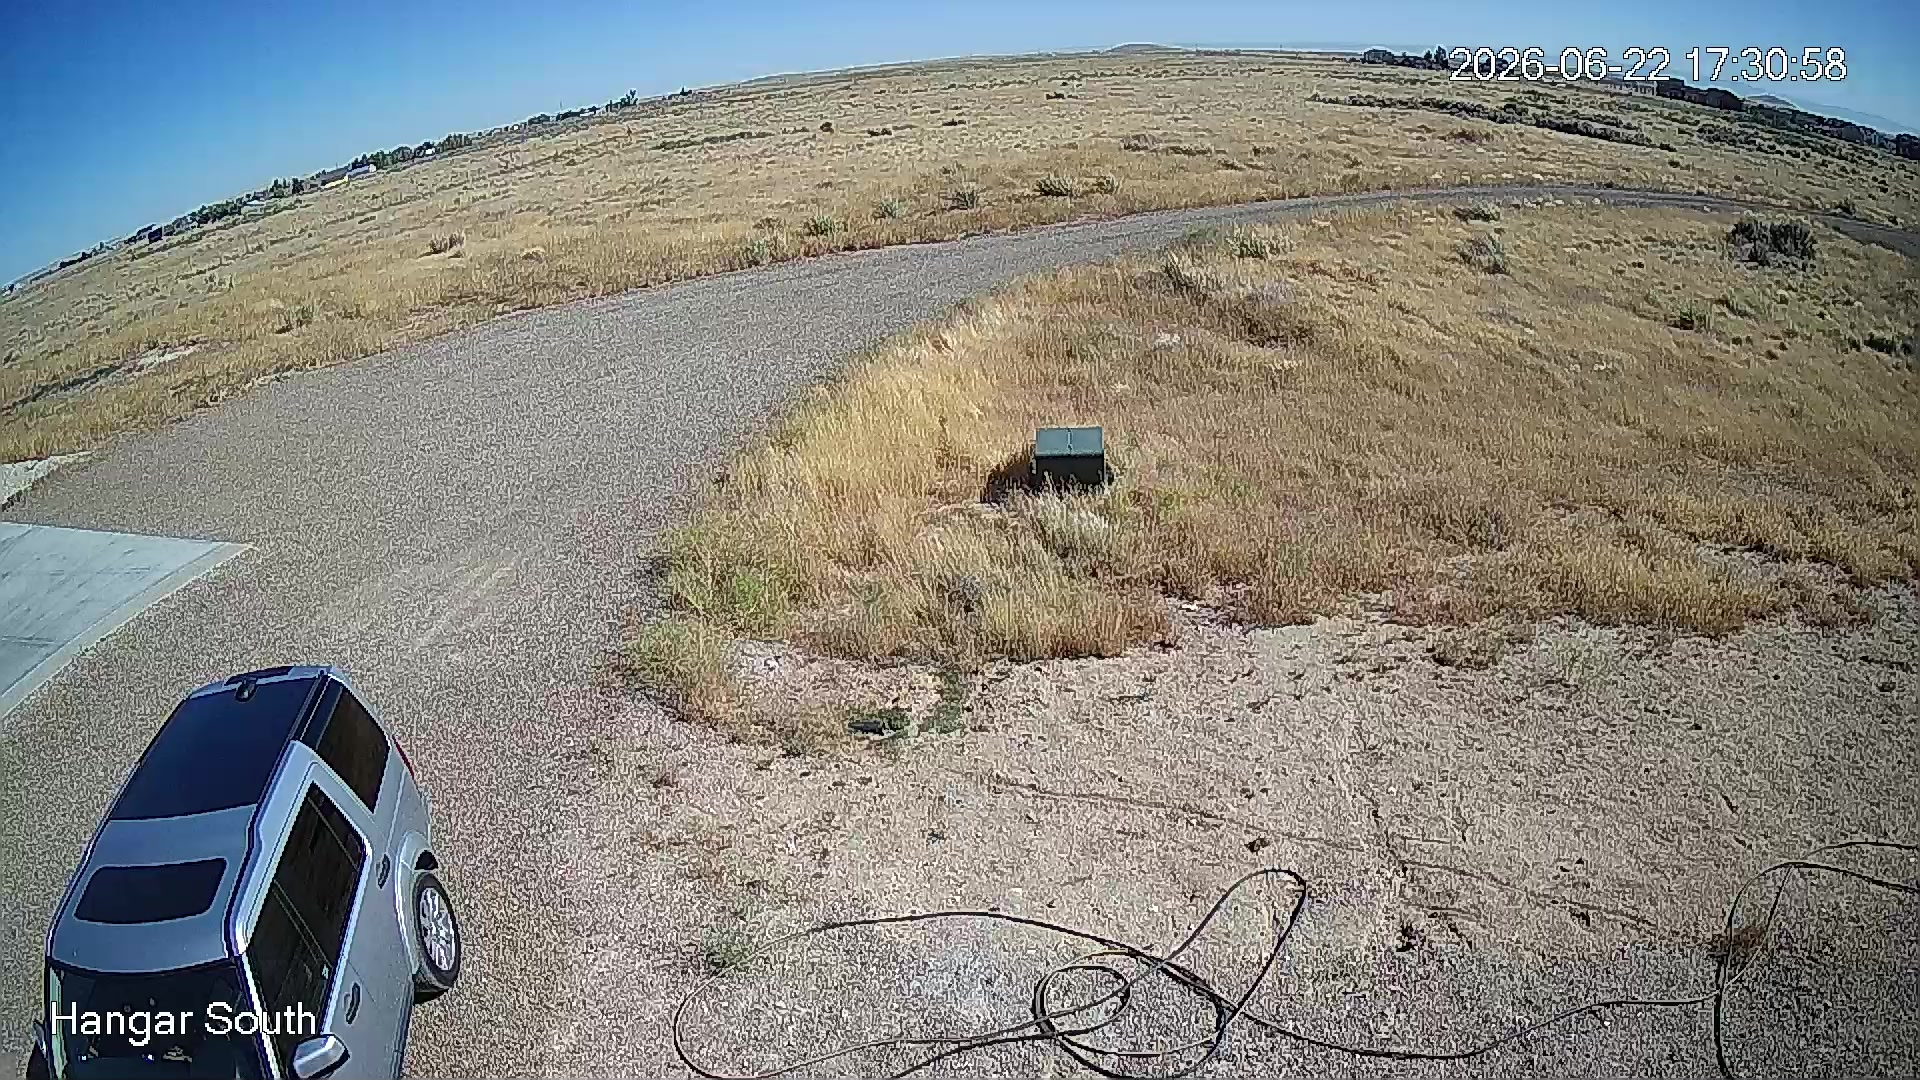
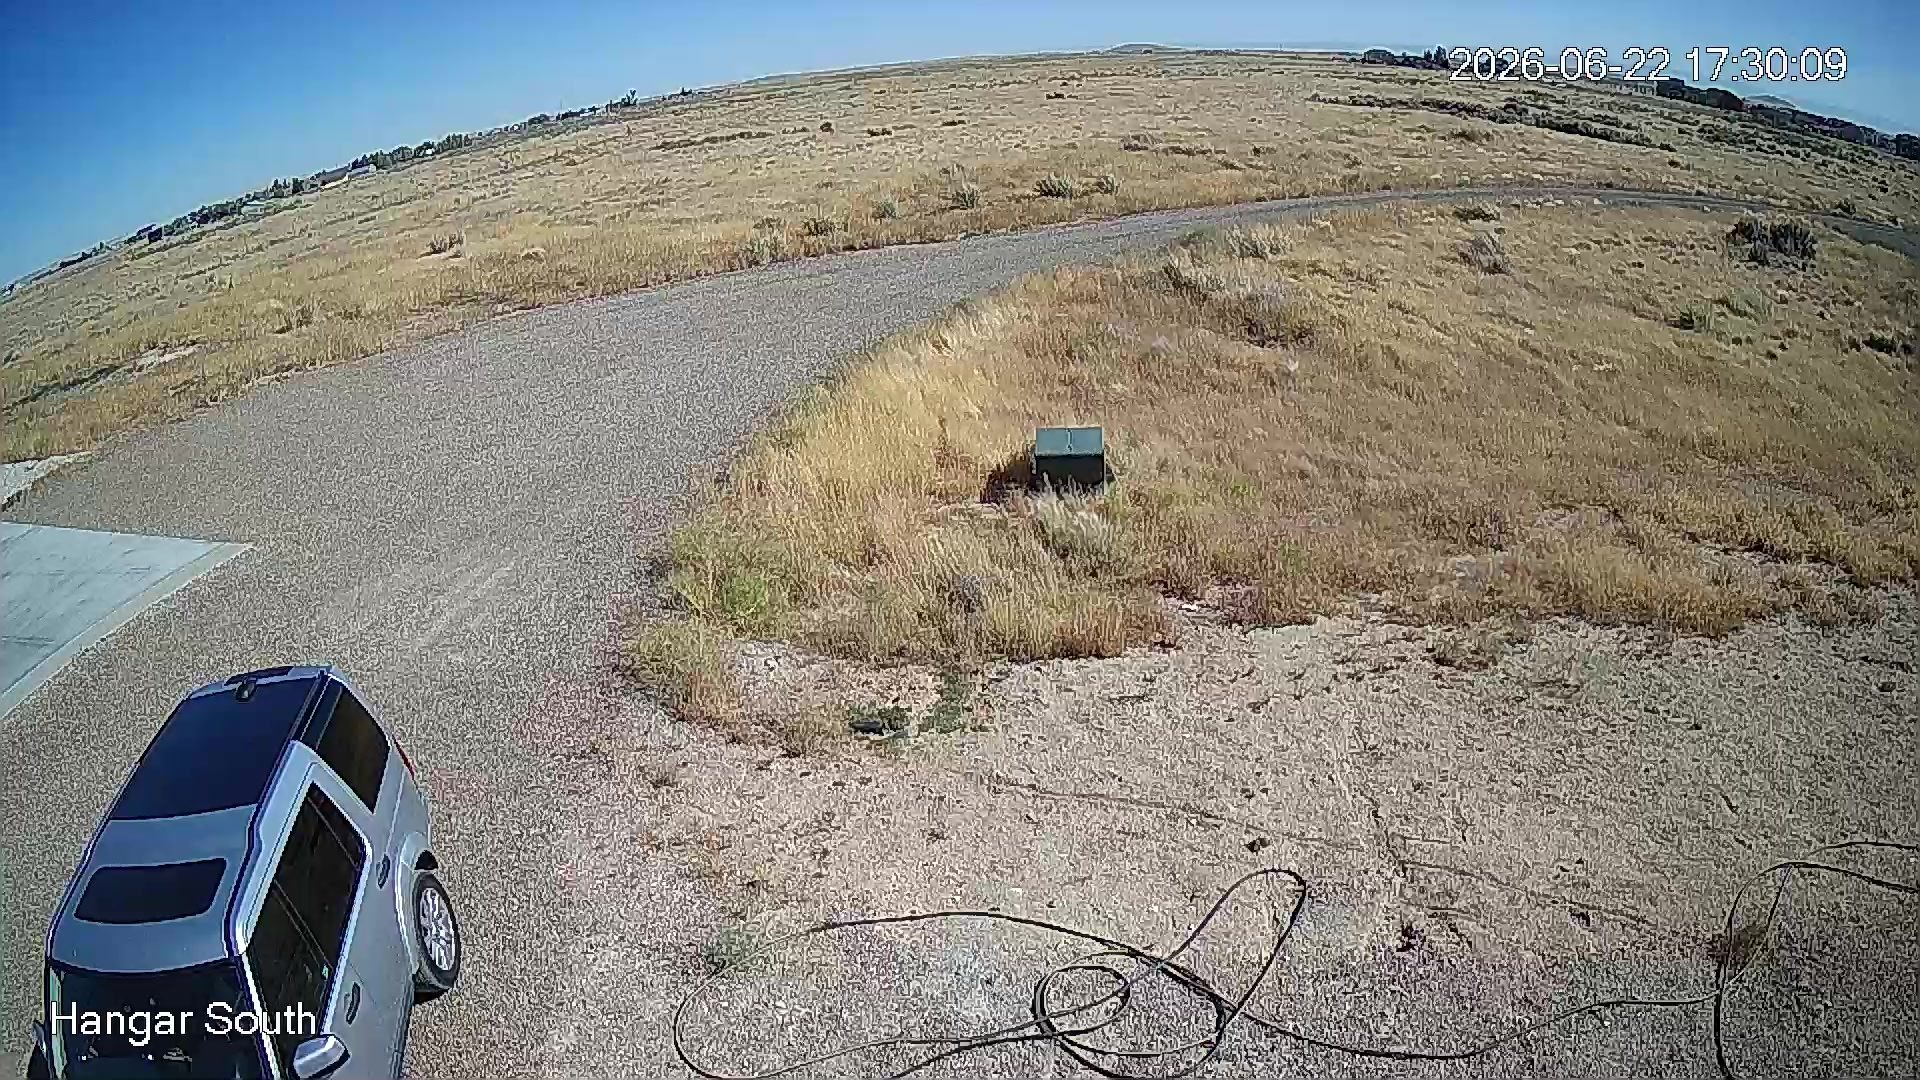
Auto-update daily aviation report and camera snapshot

Changed region(s): [[0.0, 0.0306, 1.0, 1.0], [0.125, 0.9778, 0.1562, 1.0], [0.125, 0.7944, 0.1562, 0.825]]

diff --git a/index.html b/index.html
@@ -93,57 +93,65 @@
 
             <div class="bg-slate-900 rounded p-4 font-mono text-sm leading-relaxed text-slate-300 overflow-x-auto whitespace-pre-wrap border border-slate-800" id="daily-report">
 <!-- REPORT_START -->
-🛩 **MORNING AVIATION WEATHER**
-Oasis, ID | Fri Jun 19, 2026 | 0900 MDT
+🛩 OASIS AVIATION WEATHER
+Monday, June 22, 2026 - 5:30 PM MDT
 
-**📡 LOCAL STATION (WeatherLink)**
-- Temp: 73°F | Dew Point: 34°F
-- Humidity: 24%
-- Barometer: 29.937" (rising +0.040)
-- Wind: SE (140°) at 4 mph, avg 5 mph, gusts 12 mph (10 min)
-- Rain last 24h: None
+📡 LOCAL STATION (WeatherLink)
+- Temp: 88.4°F (heat index 84.7°F)
+- Humidity: 13.2%
+- Dew Point: 31.7°F (spread 56.7°F)
+- Wind: WNW at 14 mph, avg 13.5 mph (10 min)
+- Gusts: 25 mph from W (last 10 min)
+- Barometer: 29.969" (falling, -0.034 trend)
+- Rain: None last 24 hrs, no current precip
+- Indoor: 89.3°F / 14.4% humidity
 
-**📸 VISUAL CONDITIONS (Cameras)**
-- FEW/SCT high cirrus, vis unrestricted >10sm
-- Dry surface, no moisture/frost/obstructions
-- Good VFR conditions visually confirmed
+📸 VISUAL CONDITIONS
+- Sky: Clear blue, unlimited ceiling
+- Visibility: Good, estimated 6+ miles, slight haze on distant ridgelines
+- Surface: Dry, brown summer terrain, strong shadows indicate bright sun
+- Wind indicators: No visible dust or debris despite 14 mph surface wind
+- Both cameras confirm clear conditions with minor haze at distance
 
-**📋 KMUO METAR (1355Z)**
-`KMUO 191355Z AUTO 09008KT 5SM HZ CLR 18/M02 A2993 RMK AO2 SLP106 $`
-- Wind: E at 8kt
-- Vis: 5SM in haze
+⚠️ ADVISORIES
+- Low humidity (13%) with gusty winds: elevated fire risk
+- Haze reported at KMUO (6 SM vis), likely smoke or dust
+- Very dry dew point (-6°C at KMUO) indicates extreme dryness aloft
+- Barometer falling: watch for afternoon wind increase
+- KMUO station reporting maintenance needed ($)
+
+💨 WIND OUTLOOK
+- Current: WNW 13-14 mph, gusting 25 mph
+- Evening: WNW 13-14 mph continuing, gusts 14+ mph
+- Tonight: Diminishing to 7-15 mph from WNW
+- Tuesday AM: Calm, near zero winds
+- Wednesday: Winds return, WNW 12-17 mph, gusts to 25 mph overnight
+- Best window for light-wind ops: Tuesday morning through early afternoon
+
+🌤 TODAY'S FORECAST
+- Sunny and hot through evening, high near 88°F
+- Evening temps dropping to upper 70s
+- Dry, 0% precipitation chance
+- Visibility holding around 6 miles (haze)
+- Clear skies overnight, lows near upper 60s
+- Tuesday: Hotter, highs into low 90s, calm morning winds
+
+📋 KMUO METAR (2255Z)
+KMUO 222255Z 00000KT 6SM HZ CLR 32/M06 A2995
+- Wind: Calm
+- Visibility: 6 SM in haze
 - Sky: Clear
-- Temp/Dew: 18°C / -2°C
-- Altimeter: 29.93"
-- Note: Station needs maintenance ($)
+- Temp/Dew: 32°C / -6°C (90°F / 21°F)
+- Altimeter: 29.95"
+- Remarks: Station needs maintenance ($)
 
-**💨 WIND OUTLOOK (Critical for GA)**
-- Morning: Light SE 3-4 mph
-- Midday: Light E ~3 mph
-- Evening: SE 8-9 mph (peak wind period)
-- Night: Light W 2-4 mph
-- KMUO currently reporting E at 8kt with haze
-- No significant gusts forecast today
-- Tomorrow AM watch: N winds 15-21 mph with patchy rain
-
-**🌤 TODAY'S FORECAST**
-- Sunny all day, 0% precip
-- High ~96°F (feels like 93°F)
-- Vis 6+ mi throughout
-- Excellent VFR day
-
-**📋 KBOI TAF (1140Z)**
-`TAF KBOI 191140Z 1912/2012 VRB05KT P6SM SCT150 FM192200 32009KT P6SM SCT150 FM200600 VRB06KT P6SM VCSH BKN150 TEMPO 2007/2011 VRB10G20KT -SHRA`
-- Through today: VRB 5kt, vis >6sm, SCT at 15,000
-- After 2200Z (4PM): NW 9kt, still good VFR
-- Overnight/Sat AM: Showers vicinity, BKN 15,000, gusty to 20kt
-- Sat morning tempo: light rain showers possible
-
-**⚠️ ADVISORIES**
-- Haze reducing vis to 5SM at KMUO currently (typical morning, should burn off)
-- Saturday AM: weather change coming with N winds 15-21 mph and patchy rain
-- Today is your best window this weekend
-<!-- REPORT_END -->
+📋 KBOI TAF (2328Z, valid 23/00Z-23/24Z)
+- 00-03Z: 330 at 11 G17, P6SM, FEW100
+- 03-06Z: 350 at 6, P6SM, SKC (winds easing)
+- 06-19Z: 150 at 5, P6SM, FEW150 (light SE flow)
+- 19-24Z: 330 at 8, P6SM, FEW150 (NW returns)
+- No significant ceiling or vis restrictions forecast
+- Pattern: Gusty NW tonight, calm overnight, light winds through midday Tue<!-- REPORT_END -->
             </div>
             <p class="text-xs text-slate-500 mt-3 text-right">Updated daily</p>
         </div>